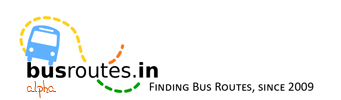
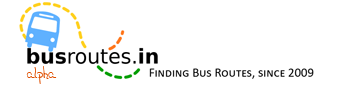
css: minor fixes

Changed region(s): [[0.0587, 0.0235, 0.9384, 0.9412], [0.0587, 0.8235, 0.176, 0.9412], [0.4106, 0.5647, 0.4692, 0.7059]]

diff --git a/static/css/style.css b/static/css/style.css
@@ -50,6 +50,10 @@ thead th {
 	background-color: #F1FFE3;
 	border-bottom: 1px solid #B8E78B;
 }
+thead a{
+	font-size:80%;
+	text-align:right;
+}
 tbody tr.dark {
 	background-color: #F5F5F5;
 }
@@ -80,6 +84,12 @@ input[type=text] {
 	text-align: left;
 	
 }
+#LoginBar
+{
+	position:absolute;
+	top:5px;
+	right:5px;
+	}
 #topbar span#location {
 	color: #FFFFFF;
 	background: #000000;
@@ -87,7 +97,7 @@ input[type=text] {
 	padding-left: 7px;
 	font-size:200%;
 	position:absolute;
-	top:53px;
+	top:36px;
 	left:173px;
 }
 #location a{
@@ -278,7 +288,7 @@ button:hover {
 	font-size:150%;
 }
 .names {
-	font-size:250%;
+	font-size:150%;
 	font-variant:small-caps;
 }
 #homeform{

diff --git a/templates/show_route.html b/templates/show_route.html
@@ -148,10 +148,10 @@ Bus Route: {{ route.display_name }}
 <h1 class="names">Route: {{ route.display_name }}</h1> 
 <div id="view">
   <div class="leftCol">
-    <table id="stages">
+    <table id="stages"><thead>
       <tr>
-        <th>Stops At</th>
-      </tr>
+        <th>Stops At <a href=#>Reverse Direction</a></th>
+      </tr></thead>
       {% for s in route.stages.all %}
       <tr class='stageentry'>
         <td><a href="{% url view.views.show_stage s.id %}">{{ s.display_name }}</a> {% if not s.latitude %} <span id = "{{ s.id }}" ><a class="mapthis" href="#" onClick="return editStage({{ s.id }});" >Map this Stage!</a></span> {% endif %} </td>

diff --git a/templates/layout.html b/templates/layout.html
@@ -35,7 +35,7 @@ pageTracker._trackPageview();
 	<div id="wrapper">
 		<div id="topbar">
 			<a href="http://www.busroutes.in/"><img alt="Find Bus Routes in" src="/static/images/header.png" /></a><span id="location"><a href="http://www.busroutes.in/">Chennai!</a></span>
-			<div id="LoginBar" style="float:right; text-align:right">
+			<div id="LoginBar">
 				{% if user.is_authenticated %}
 					Hi, <strong>{{ user.username }}</strong>
 				{% else %}

diff --git a/templates/show_stage.html b/templates/show_stage.html
@@ -54,12 +54,12 @@ Bus Stage: {{ stage.display_name }}
 {% endif %}
 <div id="view">
 <div class="leftCol">
-      <table id="stages">
+      <table id="stages"><thead>
 	<tr>
 		<th>Route</th>
 		<th>From</th>
 		<th>To</th>
-	</tr>
+	</tr></thead>
 	{% for r in stage.route_set.all %}
 	<tr class='route_entry'>
 		<td> <a href="{% url view.views.show_route r.id %}">{{ r.display_name }}</a></td>
